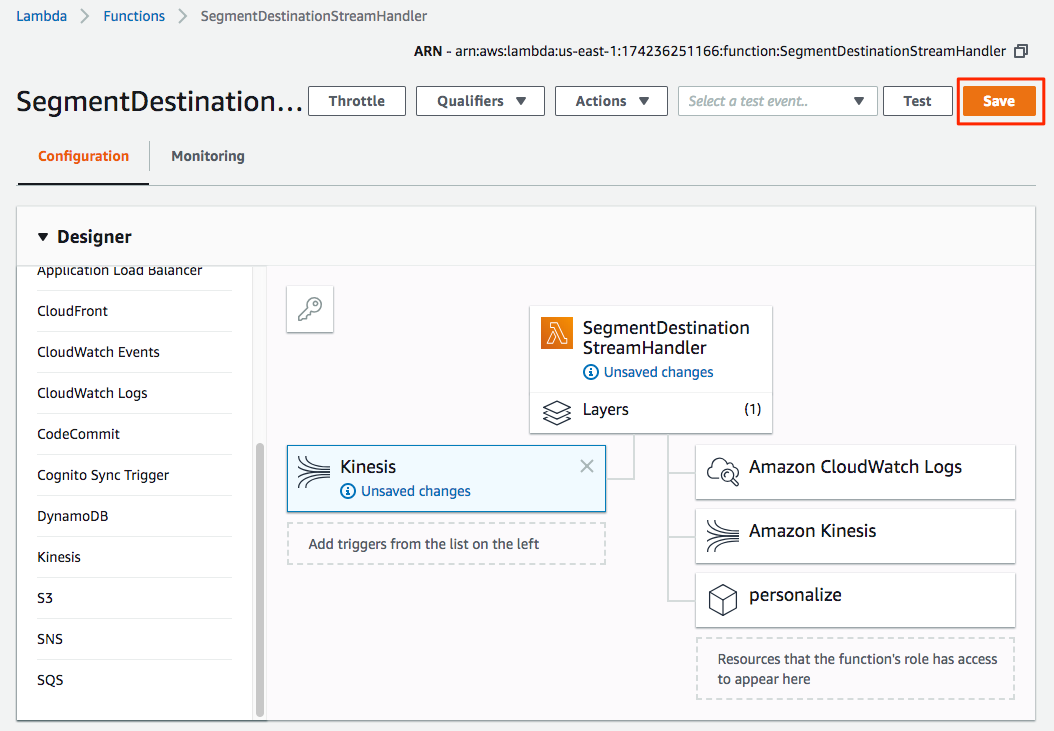
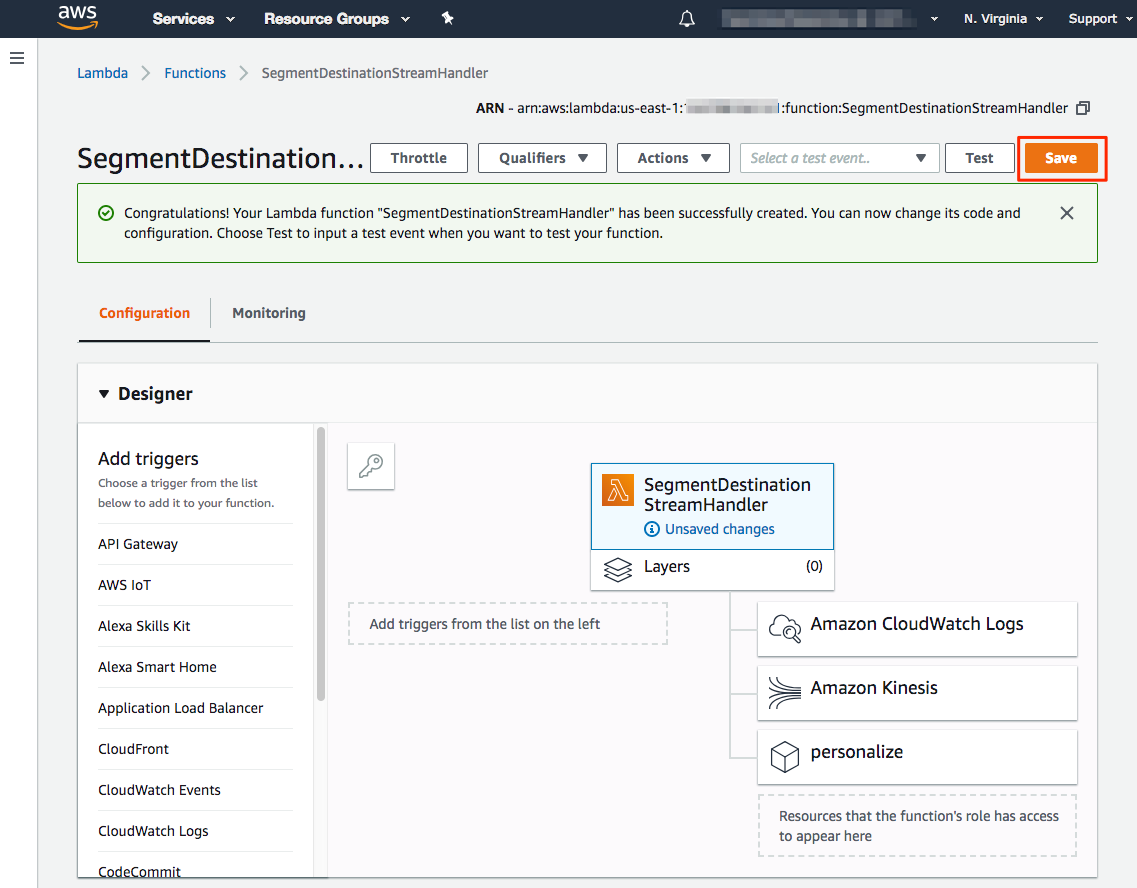
Exercise documentation

diff --git a/exercise3/README.md b/exercise3/README.md
@@ -1,35 +1,258 @@
 # Exercise 3 - Real-Time Data Collection & Recommendation Optimization
 
-1. Create Kinesis Stream
-    - Browse to Kinesis in the AWS console. Ensure that you are in the N. Virginia region.
-    - Click "Get started" and then "Create data stream"
-    - For the name of your stream, enter "SegmentDestinationStream" (required).
-    - Enter 1 for the number of shards.
-    - Click "Create Kinesis stream"
+## Overview
 
-2. Create Kinesis destination in Segment to send events
+Amazon Personalize can make recommendations based purely on historical data as we covered using historical data from Segment in [Exercise 1](../exercise1) and [Exercise 2](../exercise2). Amazon Personalize can also make recommendations purely on real-time clickstream data, or a combination of both, using the Amazon Personalize event ingestion SDK.
 
-    - Log in to Segment account.
-    - Configure a Source in Segment. For example, a website Javascript or server Node.js source.
-    - Configure a Kinesis Destination for the newly created Source.
-        - For the AWS Kinesis Stream Region, enter us-east-1 and click Save.
-        - For the Role Address you will need to find and copy the IAM role ARN to your clipboard
-            - In another browser tab/window, login to your AWS account and browse to IAM.
-            - Click on Roles in the left navigation.
-            - Find the Role with a name that starts with "SegmentPersonalizeWorkshop-SegmentKinesisRole-...".
-            - Click on the role name to view the role details.
-            - At the top of the page where the "Role ARN" is displayed, click on the copy icon at the end of the line.
-            - Switching back to your Segment tab/window, paste the Role ARN into the Role Address field and click Save.
-        - For the Secret ID, enter "123456789" and click Save.
-        - For the AWS Kinesis Stream Name, enter "SegmentDestinationStream" and click Save.
-        - Activate the destination by clicking on the selector at the top of the page.
+> Note: A minimum of 1000 records of combined interaction data is required to train a model.
 
-3. Send test events to Destination to verify configuration.
+The event ingestion SDK includes a JavaScript library for recording events from web client applications. The SDK also includes a library for recording events in server code.
 
-    - On the Kinesis configuration page in Segment, click on "Event Tester".
-    - Under the Event Tester settings, click "Event Builder".
-    - Set the Call Type to "Track" and event type to "Product Clicked".
-    - Under Properties, create or change an existing property of key "sku" and value "ocean-blue-shirt".
-    - Click "Send Event".
-    - Change the sku and/or User ID and click Send Event again. Do this a few more times.
+### What You'll Be Building
 
+In this exercise we will be leveraing the data collection capabilities of Segment to stream clickstream data to a Kinesis Stream in real-time. A Lambda function will consume events from this stream, transform the events it consumes into the parameters required by Personalize, and then update Personalize.
+
+* Create Kinesis Stream
+* Create and configure a Kinesis Stream destination in Segment
+* Send test events through the destination in Segment to Kinesis
+* Create Lambda function that consumes events from Kinesis and writes to Personalize using the [Record](https://docs.aws.amazon.com/personalize/latest/dg/API_UBS_Record.html) API
+
+### Exercise Preparation
+
+If you haven't already cloned this repository to your local machine, do so now.
+
+```bash
+git clone https://github.com/james-jory/segment-personalize-workshop.git
+```
+
+## Part 1 - Create Kinesis Stream
+
+We'll start by creating a Kinesis Stream in AWS that will be the sink for events sent by Segment. Login to the AWS account for this workshop and browse to the Kinesis service page. Click on the "Create data stream" button.
+
+![Kinesis Dashboard](images/KinesisDashboard.png)
+
+On the "Create Kinesis stream" page, enter the stream name as "SegmentDestinationStream". __This stream is required since there are IAM roles that have been pre-provisioned based on this stream name__. A shard count of "1" will be more than adequate for the workshop. Click the "Create Kinesis stream" button at the bottom of the page to create the stream.
+
+![Create Kinesis Stream](images/KinesisCreateStream.png)
+
+After a few moments your Kinesis stream will be created and ready for use.
+
+![Kinesis Stream Created](images/KinesisStreamCreated.png)
+
+## Part 2 - Create Kinesis Stream Destination in Segment
+
+Now that we have a stream to receive events, let's setup a Kinesis Stream destination in Segment. Before we can setup a destination, though, you must have a Source configured. If you don't have a Source configured, use a website Javascript or Node.js source.
+
+To setup a Destination for Kinesis, click "Destinations" in the left navigation and then click the "Add Destination" button.
+
+![Segment Destinations](images/SegmentDestinations.png)
+
+On the Destinations catalog page, enter "kinesis" in the search field and click on "Amazon Kinesis" in the search results.
+
+![Segment Add Kinesis Destination](images/SegmentKinesis-AddDestination.png)
+
+Click the "Configure Amazon Kinesis" button.
+
+![Segment Kinesis Config Start](images/SegmentKinesis-ConfigStart.png)
+
+Select the source to use with this destination and click the "Confirm Source" button.
+
+![Segment Kinesis Select Source](images/SegmentKinesis-ConfirmSource.png)
+
+One of the required parameters for configuring the Kinesis destination is an IAM Role ARN. This role must have a cross-account trust policy that will allow Segment to write to the Kinesis in your account from their AWS account. A role has already been pre-provisioned in the AWS account used for the workshop. We just need to copy the ARN to the clipboard.
+
+1. Open a new browser tab/window and login to your AWS account for the workshop.
+2. Browse to the IAM service page.
+3. Click on Roles in the left navigation and locate the role with a name that starts with `personalize-module-SegmentKinesisRole-...`.
+4. Click on the role name to view the role details.
+5. At the top of the page where the "Role ARN" is displayed, click on the copy icon at the end of the line.
+6. Switching back to your Segment tab/window, paste the Role ARN into the Role Address field.
+
+![Kinesis IAM Role ARN](images/SegmentKinesis-IAMRole.png)
+
+Complete the "Amazon Kinesis Settings" page by entering "us-east-1" for the AWS region, "123456789" for the Secret ID, and "SegmentDestinationStream" for the stream name. Finally, be sure to enable this destination at the top of the page.
+
+> We are using "123456789" for the Secret ID for this workshop so that it will match the IAM policy that is pre-provisioned for all attendees. For production deployments you will want to use a more suitably unique secret.
+
+![Segment Kinesis Destination Settings](images/SegmentKinesis-Settings.png)
+
+## Part 3 - Test Kinesis Destination using Event Tester
+
+In your Segment account, click on the Event Tester for the Kinesis Destination just created above. Edit the JSON for the test event to include a `sku` field inside `properties`. Set the `sku` value to `ocean-blue-shirt` (which is a SKU in our test dataset) and change the `userId` to `2941404340` (which also a valid user in our dataset). Finally, add an `anonymousId` field to the JSON document since our ETL job references it as well.
+
+Click the "Send Event" button to send this event to Kinesis. You should see a 200/success response in the right panel. Send the event 5-10 more times to add multiple events to the stream (and enough to complete a batch for the Lambda consumer function that we will be building in the next part of this exercise).
+
+![Segment Kinesis Destination Event Tester](images/SegmentKinesis-EventTester.png)
+
+You can verify that the events are being received by Kinesis by inspecting the "Monitoring" tab on the stream's detail page in the AWS console. Login to your AWS account for the workshop, browse to the Kinesis service page, and click the "Data Streams" link in the left navigation. Click on the "SegmentDestinationStream" stream and then the "Monitoring" tab.
+
+![Kinesis Stream Monitoring](images/Kinesis-Monitoring.png)
+
+Scroll down to where some of the "PutRecord" metrics are displayed. It may take a minute or two before the graphs are updated. Click the refresh icon button to update the metrics.
+
+![Kinesis Stream Monitoring](images/Kinesis-PutRecordsGraph.png)
+
+## Part 4 - Build Lambda Function to Process Kinesis Stream
+
+To complete our real-time event pipeline we'll build a Lambda function that consumes events from the "SegmentDestinationStream" stream, transforms the field events we need to update Personalize, and finally calling the Personalize Record API on a Personalize Event Tracker.
+
+Start by browsing to the Lambda service page in the AWS account you have been assigned for the workshop. Click the "Create a function" button to create a new function.
+
+![Lambda Dashboard](images/LambdaDashboard.png)
+
+Select the "Author from scratch" radio button since we will be providing the source code for the function. Enter a name for your function and select Python 3.7 for the runtime. For the Role field, select "Choose an existing role" from the dropdown. Your AWS account already includes a pre-provisioned role starting with the name `personalize-module-SegmentKinesisHandlerRole-...`. Select that role and click the "Create function" button.
+
+![Lambda Create Function](images/LambdaCreateFunction.png)
+
+### Lambda Function Source Code
+
+Scroll down to the "Function code" panel. Since the function has already been written for you, we need to replace the base function code provided by Lambda with our function source code. The complete function can be found at [segment_kinesis_consumer/lambda_function.py](segment_kinesis_consumer/lambda_function.py) and is displayed below.
+
+```python
+import base64
+import boto3
+import json
+import os
+import dateutil.parser as dp
+import init_personalize_api as api_helper
+
+def lambda_handler(event, context):
+    """ Consumes events from the Kinesis Stream destination configured in Segment. 
+    See the Segment documentation for how to setup Kinesis: https://segment.com/docs/destinations/amazon-kinesis/
+    """
+
+    if not 'personalize_tracking_id' in os.environ:
+        raise Exception('personalize_tracking_id not configured as environment variable')
+
+    # Initialize Personalize API (this is temporarily needed until Personalize is fully 
+    # integrated into boto3). Leverages Lambda Layer.
+    api_helper.init()
+
+    print("event: " + json.dumps(event))
+
+    personalize_events = boto3.client('personalize-events')
+
+    for record in event['Records']:
+        print("Payload: " + json.dumps(record))
+        segment_event = json.loads(base64.b64decode(record['kinesis']['data']).decode('utf-8'))
+        print("Segment event: " + json.dumps(segment_event))
+
+        if 'anonymousId' in segment_event and 'userId' in segment_event and 'properties' in segment_event and 'sku' in segment_event["properties"]:
+            print("Calling Personalize.Record()")
+            properties = { "id": segment_event["properties"]["sku"] }
+            personalize_events.record(
+                trackingId = os.environ['personalize_tracking_id'],
+                userId = segment_event['userId'],
+                sessionId = segment_event['anonymousId'],
+                eventList = [
+                    {
+                        "eventId": segment_event['messageId'],
+                        "sentAt": int(dp.parse(segment_event['timestamp']).strftime('%s')),
+                        "eventType": segment_event['event'],
+                        "properties": json.dumps(properties)
+                    }
+                ]
+            )
+        else:
+            print("Segment event does not contain required fields (anonymousId, sku, and userId)")
+```
+
+Our function iterates over the `event[Records]`, inspecting the payload for each record for a qualiying event, and then calls the Personalize Record endpoint for our Event Tracker. Logic of interest in the `for` loop includes specifying the `itemId` in the `properties` field from the `properties.sku` field in the Segment event and converting the timestamp from ISO 8601 to a UNIX timestamp as we saw in the ETL job in [Exercise 1](../exercise1).
+
+Copy the full source code above (or from the [file](segment_kinesis_consumer/lambda_function.py)) to your clipboard and paste over the source currently in the function code editor.
+
+![Lambda Function Source](images/LambdaFunctionCode.png)
+
+Click the "Save" button at the top of the page to save your function.
+
+### Wire up Personalize API using Lambda Layer (Preview only)
+
+You will notice in the function source the following `import` and function call.
+
+```python
+import of import init_personalize_api as api_helper
+...
+api_helper.init()
+```
+
+This `import` and function call utilize some boilerplate code, packaged as a [Lambda Layer](https://docs.aws.amazon.com/lambda/latest/dg/configuration-layers.html), needed to configure the Personalize API with the AWS Python SDK. This is only necessary while Personalize is in Preview. Once Personalize is GA and the API is bundled with the Python SDK, as well as other language SDKs, this supporting Layer will no longer be needed. For now, though, we need to install this Layer once so we can use it across the functions we build in this workshop.
+
+To install our Layer, open the Lambda navigation panel and click "Layers".
+
+![Lambda Nav Panel](images/LambdaNav.png)
+
+![Lambda Layers Nav](images/LambdaLayersNav.png)
+
+From the Lambda Layers view, click the "Create layer" button.
+
+![Lambda Create Layer](images/LambdaCreateLayer.png)
+
+Create the layer by specifying a name such as "PersonalizeApiInstaller", browsing to the pre-made zip in this repository at "support/layer/python_personalize_init.zip", and selecting Python 3.7 as the compatible runtime. Click the "Create" button to upload the zip file and create the layer.
+
+![Lambda Create Layer Config](images/LambdaCreateLayerConfig.png)
+
+Next we need to add the layer just created to our function. Return to the Lambda function by opening the Lambda navigation panel and clicking "Functions".
+
+![Lambda Nav Panel](images/LambdaNav.png)
+
+![Lambda Function Layer Add](images/LambdaFunctionsNav.png)
+
+Click on your function name to access the configuration page again. In the Lambda Designer, click the "Layers" panel below the function name and then the "Add layer" button in the "Referenced layers" panel at the bottom of the page.
+
+![Lambda Function Layer Add](images/LambdaLayerAdd.png)
+
+Select the layer we just added and the latest version. Click "Add" to add the layer to the function.
+
+![Lambda Function Layer Add](images/LambdaLayerAddSelect.png)
+
+### Wire-up Personalize Event Tracker
+
+Another dependency in our function is the ability to call the Personalize [Record API](https://docs.aws.amazon.com/personalize/latest/dg/API_UBS_Record.html) endpoint as shown in the following excerpt.
+
+```python
+personalize_events.record(
+    trackingId = os.environ['personalize_tracking_id'],
+    userId = segment_event['userId'],
+    sessionId = segment_event['anonymousId'],
+    eventList = [
+        {
+            "eventId": segment_event['messageId'],
+            "sentAt": int(dp.parse(segment_event['timestamp']).strftime('%s')),
+            "eventType": segment_event['event'],
+            "properties": json.dumps(properties)
+        }
+    ]
+)
+```
+
+The `trackingId` function argument identifies the Personalize Event Tracker which should handle the events we submit. This value is passed to our Lambda function as an Environment variable. Let's create a Personalize Event Tracker for the Dataset Group we created in [Exercise 2](../exercise2).
+
+In another browser tab/window, browse to the Personalize service landing page in the AWS console. Click on the Dataset Group created in [Exercise 2](../exercise2) and then "Event trackers" in the left navigation. Click the "Create event tracker" button.
+
+![Personalize Event Trackers](images/PersonalizeCreateTracker.png)
+
+Enter a name for your Event Tracker and select the pre-provisioned CloudWatch IAM role that starts with `personalize-module-PersonalizeExecutionRole-..`. If the IAM role is not present, select "Enter a custom IAM role ARN" and paste the IAM ARN for the role (obtained from IAM service page for the role name like `personalize-module-PersonalizeExecutionRole-..`). Click the "Next" button to create the tracker.
+
+![Personalize Event Tracker Config](images/PersonalizeEventTrackerConfig.png)
+
+The Event Tracker's tracking ID is displayed on the following page and is also available on the Event Tracker's detail page. Copy this value to your clipboard.
+
+![Personalize Event Tracker Config](images/PersonalizeEventTrackerCreating.png)
+
+Returning to our Lambda function, paste the Event Tracker's tracking ID into an Environment variable for our function with the key `personalize_tracking_id`.
+
+![Lambda Environment Variable](images/LambdaEnvVariable.png)
+
+### Wire-up Kinesis Stream as Trigger
+
+Now that the Layer and Event Tracker are in place, let's turn our attention to wiring up our function to the Kinesis stream we created earlier in this exercise. Scroll back to the Lambda Designer panel at the top of the page and locate "Kinesis" in the "Add triggers" left-side panel. Click on Kinesis to add Kinesis as a trigger for our function.
+
+![Lambda Kinesis Trigger](images/LambdaKinesisTrigger.png)
+
+Scroll down the page to the "Configure triggers" panel. Select the Kinesis stream created earlier, set a "Batch size" of 2 (since we're testing with a small number of manually generated events), and set the "Starting position" to "Trim Horizon". Click the "Add" button to add the trigger.
+
+![Lambda Kinesis Config](images/LambdaKinesisConfig.png)
+
+Scroll to the top of the page and click the "Save" button to save all of our changes.
+
+![Lambda Save Function](images/LambdaSaveFunction.png)

diff --git a/README.md b/README.md
@@ -30,7 +30,7 @@ In this [exercise](exercise2/) we will pick up where we left off in the prior ex
 
 ## [Exercise 3](exercise3/) - Real-Time Data Collection & Recommendation Optimization
 
-In this [exercise](exercise3/) we will build the components necessary to ingest clickstream data from Segment using an Amazon Kinesis Data Stream and Amazon Lambda and update Personalize in real-time. This will allow Personalize to learn from customer interactions that are being collected by Segment to improve its recommendations. 
+In this [exercise](exercise3/) we will build the components necessary to ingest clickstream data from Segment using an Amazon Kinesis Data Stream and Amazon Lambda and update Personalize in real-time. This will allow Personalize to learn from customer interactions that are being collected by Segment to improve its recommendations.
 
 ## [Exercise 4](exercise4/) - Activating Recommendations using Segment Personas
 

diff --git a/exercise2/README.md b/exercise2/README.md
@@ -19,7 +19,7 @@ You can configure Amazon Personalize to upload training data on a pre-determined
 
 ### What You'll Be Building
 
-In the previous [exercise](../exercise1/) we learned how to use AWS Glue to take the raw event data written to S3 by Segment and transform it into the format required by Personalize. In this exercise we will pick up where we left off and learn how to create a dataset group in Personalize, define the schema for the event data in our CSV, 
+In the previous [exercise](../exercise1/) we learned how to use AWS Glue to take the raw event data written to S3 by Segment and transform it into the format required by Personalize. In this exercise we will pick up where we left off and learn how to create a dataset group and campaign in Personalize by performing the following steps.
 
 * Create a dataset group in Personalize
 * Define the schema representing the event data in our CSV
